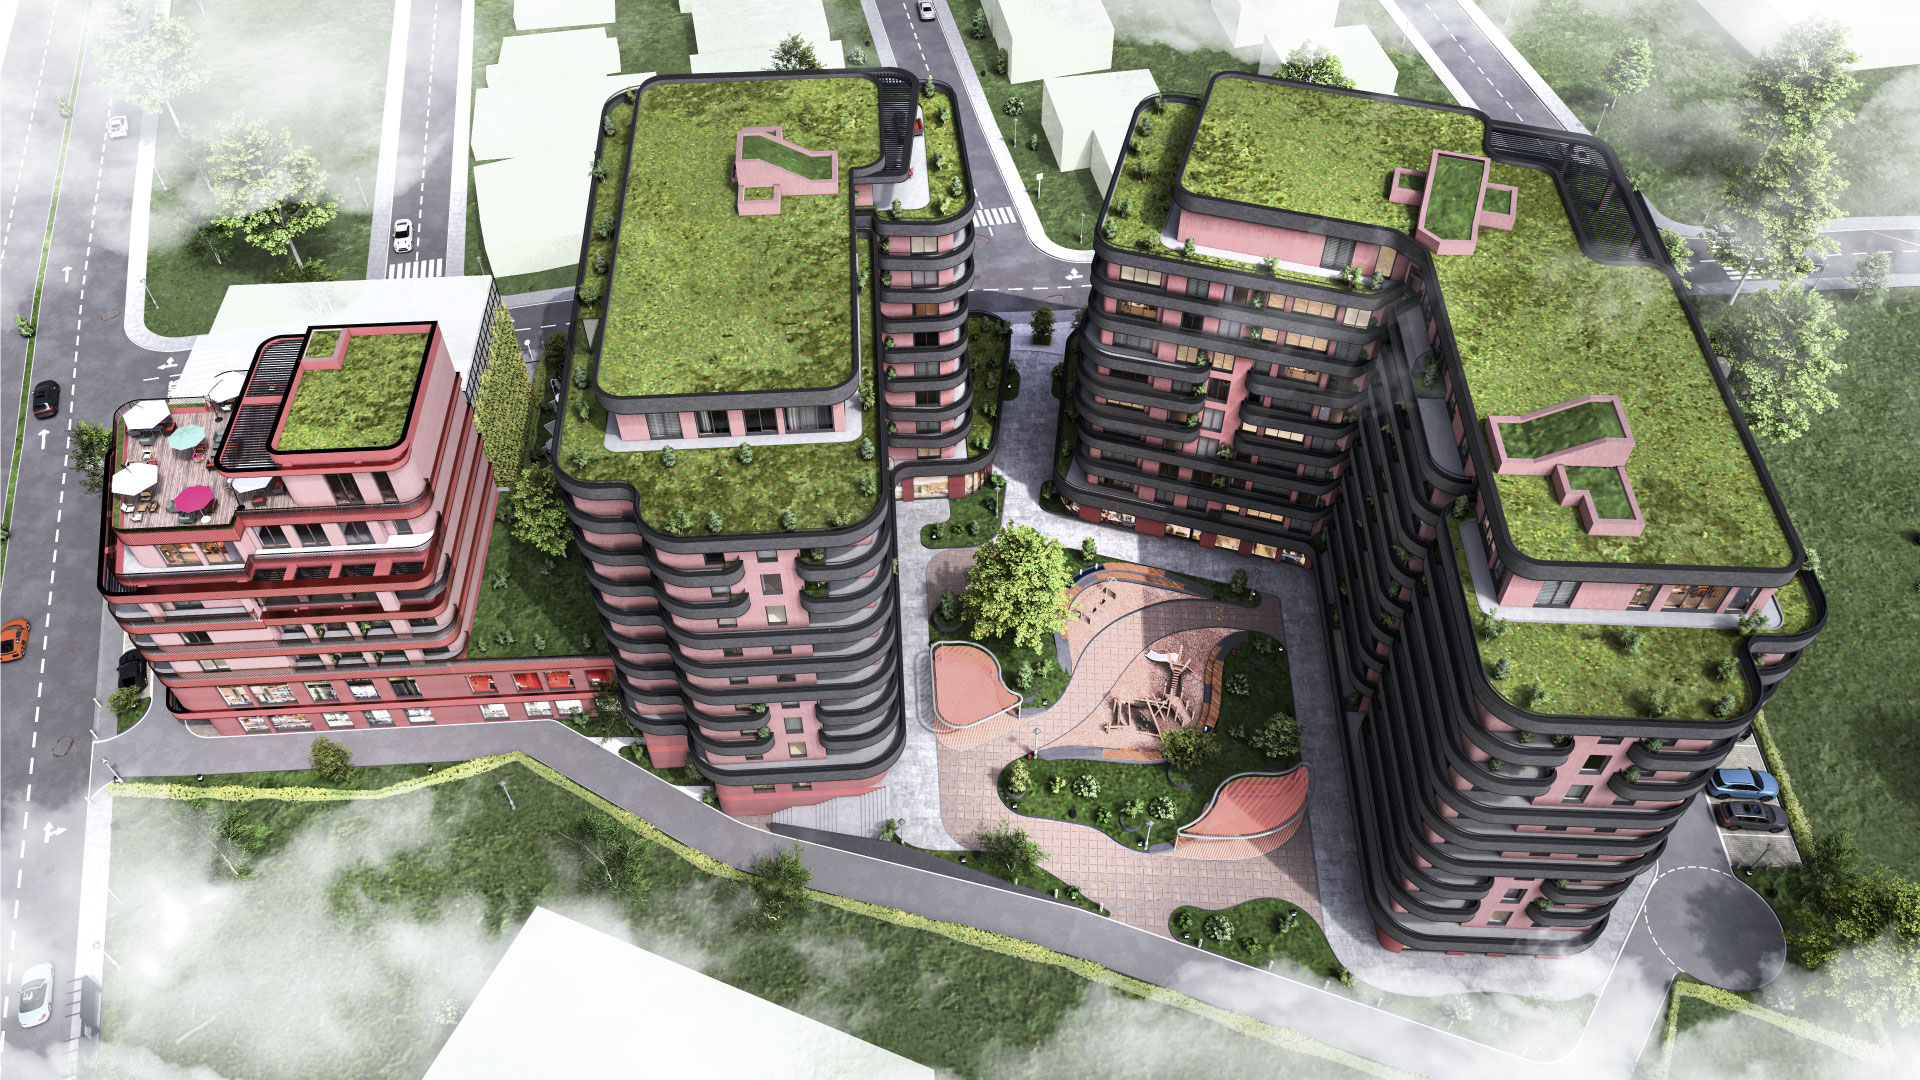
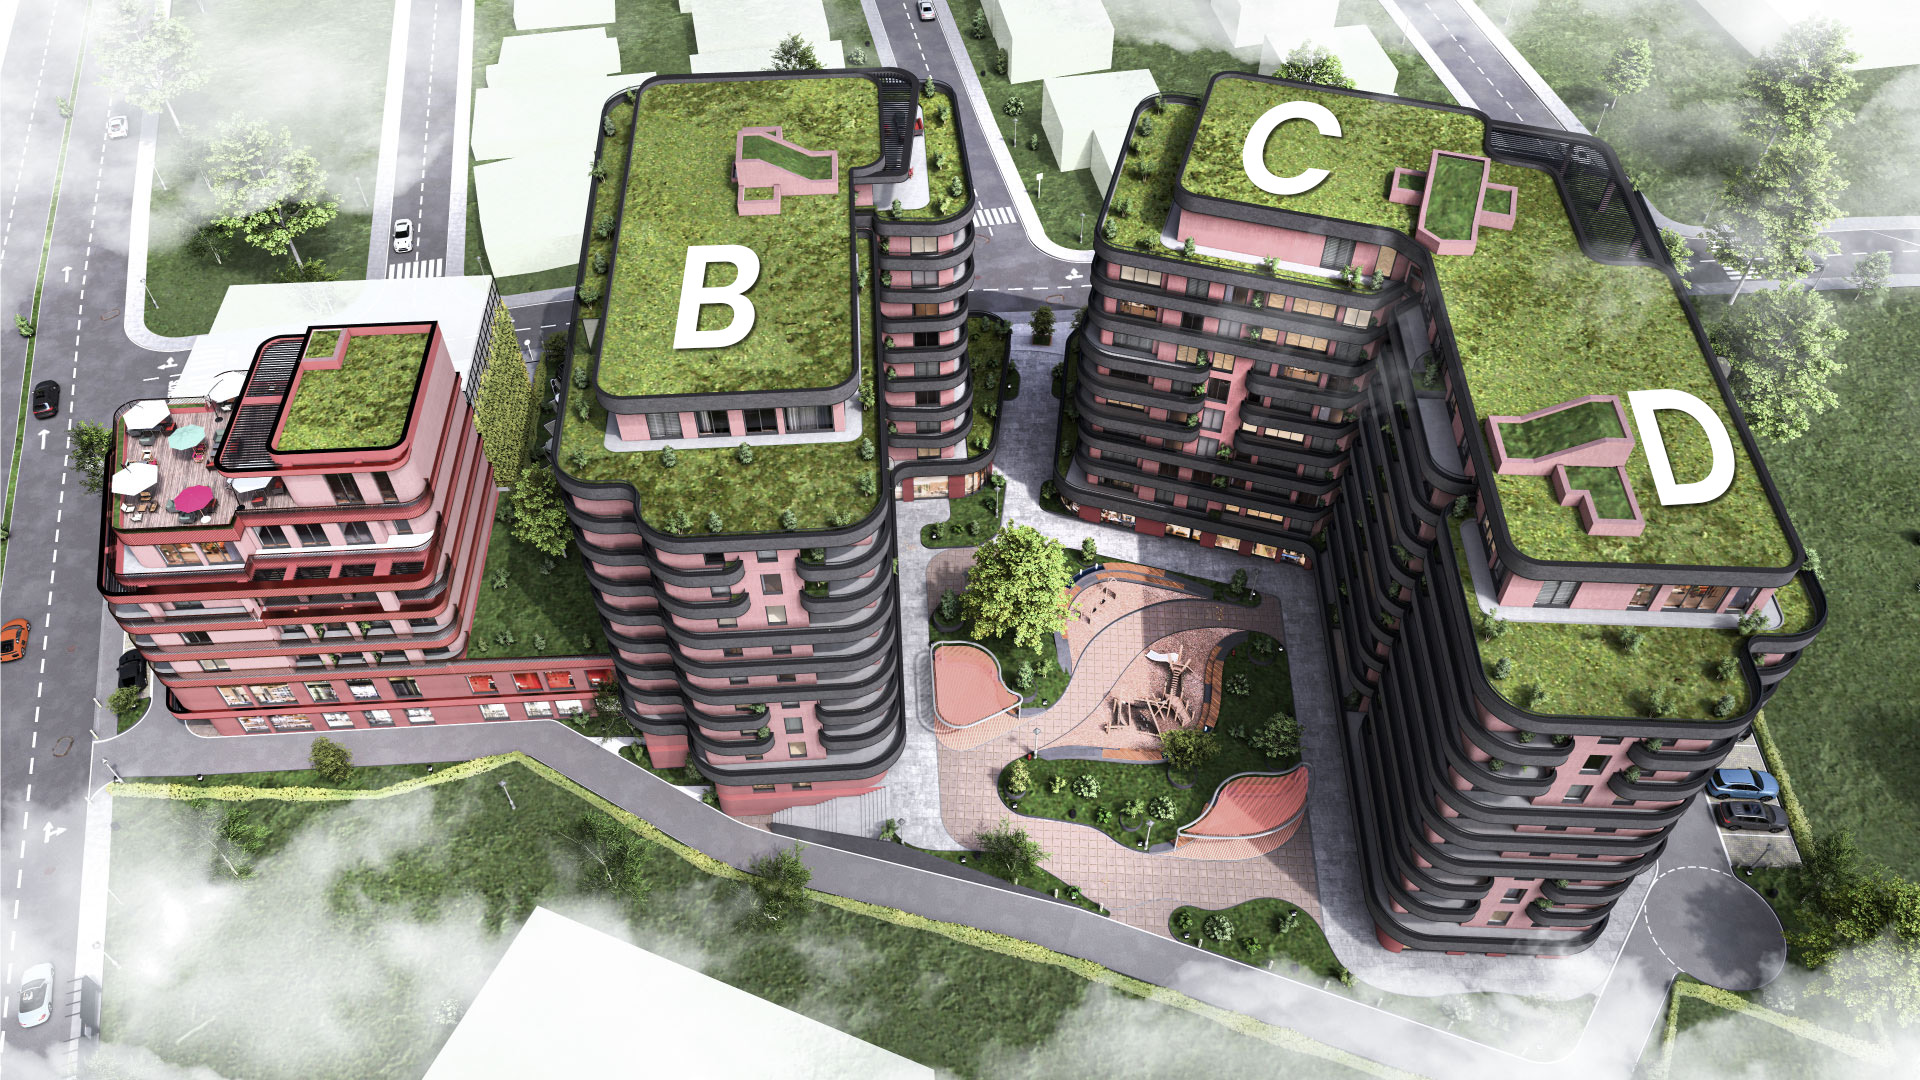
./

Changed region(s): [[0.8438, 0.3361, 0.9062, 0.4889], [0.3438, 0.2139, 0.4062, 0.3361], [0.625, 0.0917, 0.7188, 0.1833]]

diff --git a/src/components/apartments/SingleApartment.jsx b/src/components/apartments/SingleApartment.jsx
@@ -56,9 +56,7 @@ const SingleApartment = ({ apartment,
                             
                             </svg>
                             <p className="text-lg md:text-2xl">
-                                {rooms === "Studio" || rooms === 0
-                                    ? rooms
-                                    : `${rooms} Terasa`}
+                                {(balconySquare || 0).toFixed(2)}m<sup>2</sup> Terasë
                             </p>
                         </div>
                         <div className="w-full flex gap-2 md:gap-4 items-center">
@@ -93,7 +91,7 @@ const SingleApartment = ({ apartment,
                             className="flex items-center justify-center w-full text-nowrap px-12 py-3 text-primary text-base md:text-xl bg-secondary hover:bg-primary hover:text-secondary duration-300 rounded-full">
                             Shkarko PDF
                         </button>
-                        <button className="flex items-center justify-center w-full text-nowrap px-12 py-3 text-primary text-base md:text-xl bg-secondary hover:bg-primary hover:text-secondary duration-300 rounded-full">
+                        <button className="flex items-center justify-center w-full text-nowrap px-12 py-3 text-secondary text-base md:text-xl border hover:bg-secondary hover:text-primary duration-300 rounded-full">
                             Kontaktoni per cmimin
                         </button>
                     </div>

diff --git a/src/components/cards/ApartmentModal.jsx b/src/components/cards/ApartmentModal.jsx
@@ -17,7 +17,7 @@ const ApartmentModal = ({ apartment, mousePosition }) => {
             <div className='relative flex flex-col justify-between items-end w-full h-full'>
                 <div className="flex w-full justify-between items-start mb-2">
                     <div>
-                    <p className="text-base opacity-60 text-white">Terasa: {apartment.terrace}</p>
+                    <p className="text-base opacity-60 text-white">Terasa: {apartment.balconySquare}m<sup>2</sup></p>
                     <p className="text-base opacity-60 text-white">Dhoma: {apartment.bedroom === 0 || apartment.bedroom === "Studio" ? apartment.bedroom : `${apartment.bedroom} + 1`}</p>
                     <p className="text-base opacity-60 text-white">Kati: {apartment.floor}</p>
                     </div>

diff --git a/src/components/building/BuildingView.jsx b/src/components/building/BuildingView.jsx
@@ -115,6 +115,7 @@ const BuildingView = ({
                           sqft: apartment.square,
                           bedroom: apartment.rooms,
                           floor: apartment.floorNumber,
+                          balconySquare: apartment.balconySquare,
                         },
                         open: true,
                         x: e.clientX + 10,
@@ -172,6 +173,7 @@ const BuildingView = ({
                           sqft: apartment.netoSquare,
                           bedroom: apartment.rooms,
                           floor: apartment.floorNumber,
+                          balconySquare: apartment.balconySquare,
                         },
                         open: true,
                         x: e.clientX + 10,
